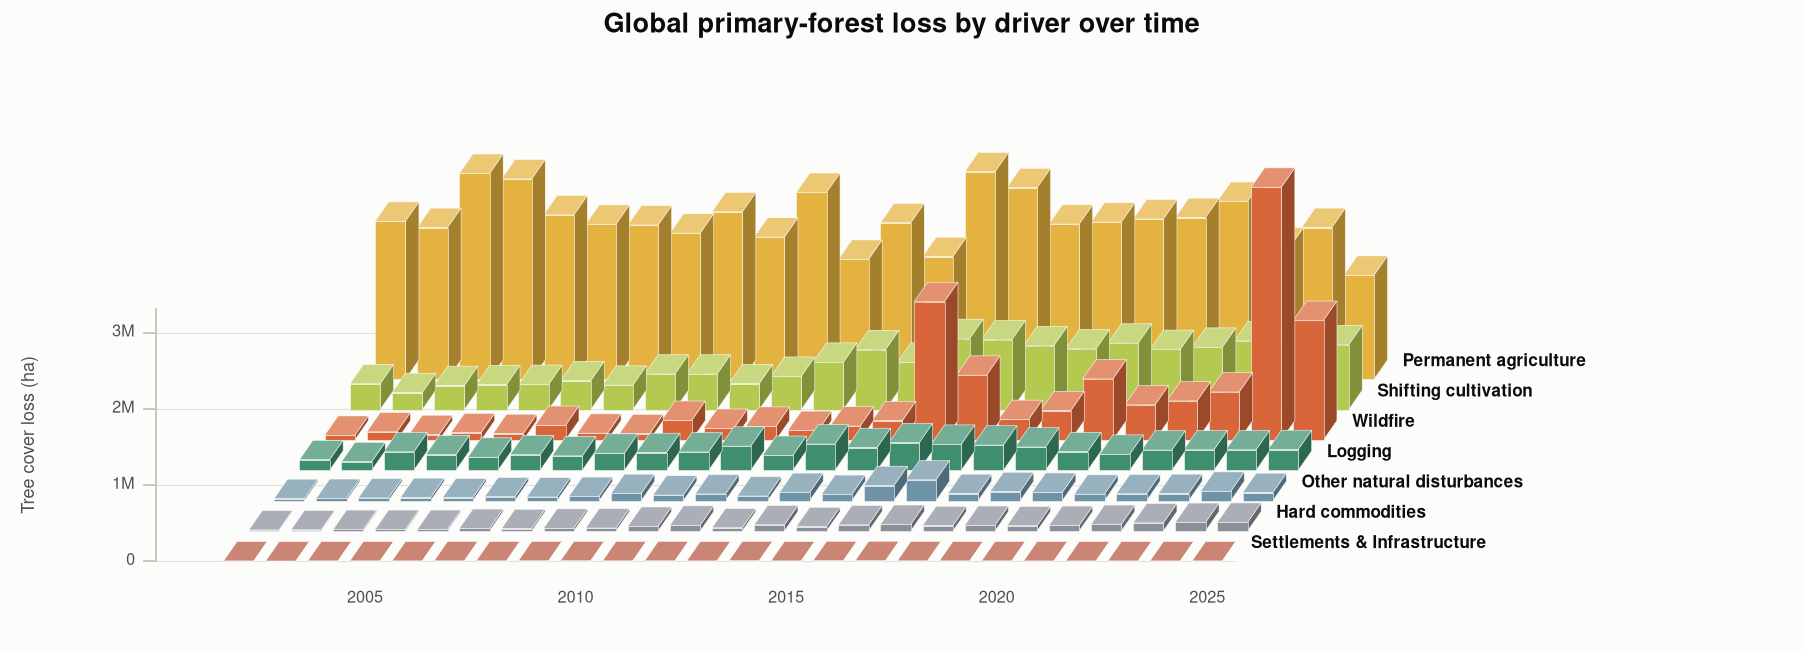
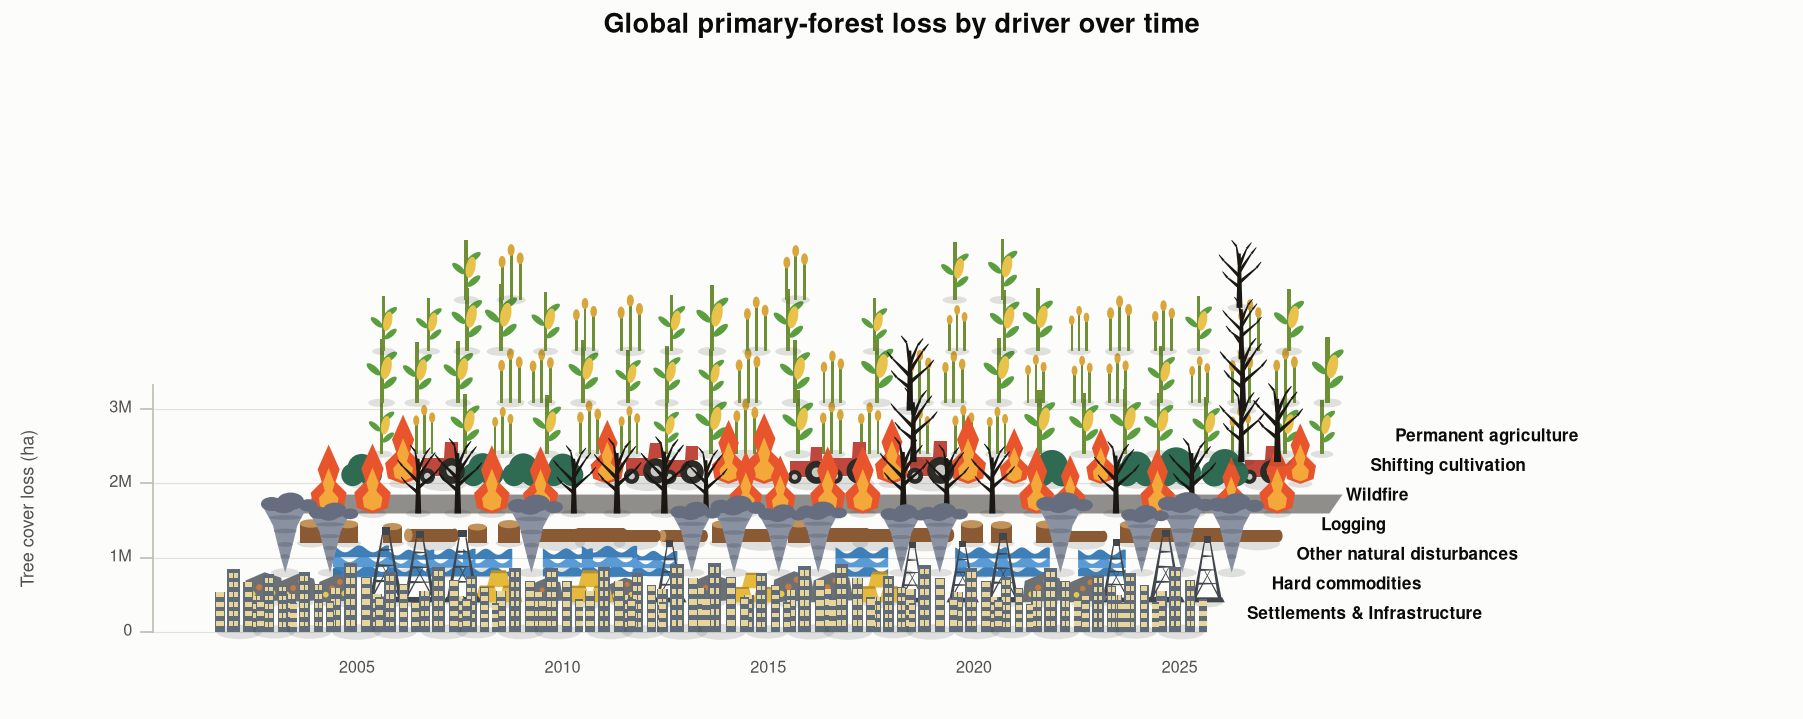
Turn over-time chart into a driver-motif pictograph
Replace the 3-D bars with columns of each driver's imagery stacked to the
ha value: wheat/corn (agriculture), shrubs+tractor+fires (shifting
cultivation), burnt trees+flames over charred ground (wildfire), logs
(logging), tornadoes+floods (other), oil rigs+gold+ore (hard commodities),
cityscapes (settlements). Add corn/shrub/tractor/flood motifs and a
TIMESERIES motif-set map; keep the common-floor ha axis.

diff --git a/src/forest_viz/motifs.py b/src/forest_viz/motifs.py
@@ -24,6 +24,10 @@ _C = {
     "ore": "#6c7075", "copper": "#c67a3e", "gold_speck": "#e8c94a",
     "storm": "#8a91a1", "storm_dark": "#666d7e",
     "city": "#5f6b78", "city_dark": "#48525d", "window": "#e8d59a",
+    "cob": "#e8c24a", "cob_leaf": "#5a9e3f",
+    "water": "#5b9bd5", "water_dark": "#3f7fb8",
+    "tractor": "#c0473c", "wheel": "#2b2b28", "hub": "#c9c9c4",
+    "charred": "#26221c",
 }
 _SHADOW = "#1c2b22"
 
@@ -213,12 +217,67 @@ def cityscape(ax, x, y, s, t, z):
             r += 1
 
 
+def corn(ax, x, y, s, t, z):
+    """A corn plant: green stalk, angled leaves, a yellow cob."""
+    _shadow(ax, x, y, 0.4, s, t, z)
+    _poly(ax, x, y, [(-0.03, 0), (0.03, 0), (0.03, 0.95), (-0.03, 0.95)], s, _C["stalk"], t, z + 0.01)
+    for oy, ang in ((0.3, 40), (0.5, -40), (0.68, 35)):
+        ax.add_patch(Ellipse((x + (0.12 if ang > 0 else -0.12) * s, y + oy * s), 0.26 * s, 0.1 * s,
+                             angle=ang, facecolor=_C["cob_leaf"], edgecolor="none", transform=t, zorder=z + 0.02))
+    ax.add_patch(Ellipse((x + 0.07 * s, y + 0.52 * s), 0.15 * s, 0.34 * s, angle=-12,
+                         facecolor=_C["cob"], edgecolor="none", transform=t, zorder=z + 0.03))
+
+
+def shrub(ax, x, y, s, t, z):
+    """A small rounded bush."""
+    _shadow(ax, x, y, 0.5, s, t, z)
+    for ox, oy, r in ((-0.16, 0.16, 0.2), (0.16, 0.16, 0.2), (0.0, 0.28, 0.25)):
+        ax.add_patch(Circle((x + ox * s, y + oy * s), r * s, facecolor=_C["tree2"],
+                            edgecolor="none", transform=t, zorder=z + 0.01))
+
+
+def tractor(ax, x, y, s, t, z):
+    """A simple side-view tractor."""
+    _shadow(ax, x, y, 0.7, s, t, z)
+    c = _C["tractor"]
+    _poly(ax, x, y, [(-0.34, 0.12), (0.16, 0.12), (0.16, 0.4), (-0.34, 0.4)], s, c, t, z + 0.01)  # body
+    _poly(ax, x, y, [(0.0, 0.4), (0.22, 0.4), (0.22, 0.64), (0.02, 0.64)], s, c, t, z + 0.02)      # cab
+    for wx, wr in ((0.12, 0.2), (-0.26, 0.12)):  # rear big, front small
+        ax.add_patch(Circle((x + wx * s, y + wr * s), wr * s, facecolor=_C["wheel"],
+                            edgecolor="none", transform=t, zorder=z + 0.03))
+        ax.add_patch(Circle((x + wx * s, y + wr * s), wr * 0.42 * s, facecolor=_C["hub"],
+                            edgecolor="none", transform=t, zorder=z + 0.04))
+
+
+def flood(ax, x, y, s, t, z):
+    """Wavy flood water."""
+    _shadow(ax, x, y, 0.5, s, t, z)
+    for i, (yy, col) in enumerate(((0.06, _C["water_dark"]), (0.2, _C["water"]), (0.34, _C["water_dark"]))):
+        xs = np.linspace(-0.4, 0.4, 25)
+        wave = 0.05 * np.sin(xs / 0.4 * np.pi * 2 + i)
+        top = np.column_stack([xs, yy + wave])
+        bot = np.column_stack([xs[::-1], np.full(len(xs), yy - 0.12)])
+        _poly(ax, x, y, np.vstack([top, bot]), s, col, t, z + 0.01 + i * 0.01)
+
+
 MOTIF = {
     "evergreen": evergreen, "round_tree": round_tree, "flame": flame,
     "burnt_tree": burnt_tree, "burnt_snag": burnt_snag,
     "log": log, "stump": stump, "crop": crop, "seedling": seedling, "barn": barn,
     "oil_derrick": oil_derrick, "gold_bars": gold_bars, "ore_rock": ore_rock,
     "tornado": tornado, "cityscape": cityscape,
+    "corn": corn, "shrub": shrub, "tractor": tractor, "flood": flood,
+}
+
+# Motif sets for the over-time pictograph (one entry per driver).
+TIMESERIES = {
+    "Permanent agriculture": ["crop", "corn"],
+    "Shifting cultivation": ["shrub", "tractor", "flame"],
+    "Wildfire": ["burnt_tree", "flame"],
+    "Logging": ["log", "stump"],
+    "Other natural disturbances": ["tornado", "flood"],
+    "Hard commodities": ["gold_bars", "ore_rock", "oil_derrick"],
+    "Settlements & Infrastructure": ["cityscape"],
 }
 
 # Which motifs (and relative sizes) compose each driver's diorama.

diff --git a/src/forest_viz/maps.py b/src/forest_viz/maps.py
@@ -636,18 +636,33 @@ def plot_drivers_over_time_3d(drivers, country=None, ax=None, dark=False):
     ax.text(-4.6, gmax * yscale / 2, "Tree cover loss (ha)", rotation=90, ha="center",
             va="center", fontsize=10, color=chrome["text_secondary"])
 
-    # Draw back (far) rows first so nearer driver rows overlap them.
+    # Each year's value is a column of the driver's motifs stacked to the bar
+    # height. Draw back (far) rows first so nearer rows overlap them.
+    msize, step = 1.5, 1.25
     for r in range(n - 1, -1, -1):
         d = rows[r]
-        bx, byb, color = r * dpx, r * dpy, theme[d]
+        bx, byb = r * dpx, r * dpy
         zlayer = (n - r) * 1000
+        keys = _motifs.TIMESERIES.get(d) or [_LEGEND_MOTIF.get(d, "crop")]
+        if d == "Wildfire":  # charred ground under the wildfire row
+            x0, x1 = bx - 0.4, bx + n_years * xstep + 0.6
+            ax.add_patch(Polygon([(x0, byb), (x1, byb), (x1 + dx, byb + dy), (x0 + dx, byb + dy)],
+                                 closed=True, facecolor="#26221c", alpha=0.5, edgecolor="none",
+                                 zorder=zlayer - 0.5))
         for xi, yr in enumerate(years):
             val = float(wide.loc[yr, d])
             if val <= 0:
                 continue
-            _bar3d(ax, bx + xi * xstep, byb, w, val * yscale, dx, dy, color,
-                   chrome["surface"], zlayer + (n_years - xi))
-        ax.text(bx + n_years * xstep + 0.4, byb + 0.2, d, ha="left", va="bottom",
+            h = val * yscale
+            cx = bx + xi * xstep + w / 2
+            rng = np.random.RandomState(zlib.crc32(f"{d}{yr}".encode()) & 0xFFFFFFFF)
+            for i in range(max(1, int(round(h / step)))):
+                key = keys[rng.randint(len(keys))]
+                jx = cx + (rng.rand() - 0.5) * 0.3
+                sz = msize * (0.9 + rng.rand() * 0.25)
+                _motifs.MOTIF[key](ax, jx, byb + i * step, sz, ax.transData,
+                                   zlayer + (n_years - xi) + i * 0.02)
+        ax.text(bx + n_years * xstep + 1.0, byb + 0.2, d, ha="left", va="bottom",
                 fontsize=9.5, color=chrome["text"], fontweight="bold", zorder=zlayer + 9999)
 
     for xi, yr in enumerate(years):  # year ticks along the front baseline
@@ -655,8 +670,8 @@ def plot_drivers_over_time_3d(drivers, country=None, ax=None, dark=False):
             ax.text(xi * xstep + w / 2, -0.7, str(yr), ha="center", va="top",
                     fontsize=9, color=chrome["text_secondary"])
 
-    ax.set_xlim(-5, n_years * xstep + n * dpx + 9)
-    ax.set_ylim(-1.8, n * dpy + gmax * yscale + 1)
+    ax.set_xlim(-5, n_years * xstep + n * dpx + 10)
+    ax.set_ylim(-1.8, n * dpy + gmax * yscale + msize + 1.5)
     ax.set_aspect("equal")
     ax.axis("off")
     scope = country if country else "Global"

diff --git a/README.md b/README.md
@@ -91,7 +91,7 @@ python examples/generate_figures.py data/raw/global.xlsx
 | `plot_top_countries` | Which countries lost the most? | ranked horizontal bar |
 | `plot_top_countries_drivers` | For the top countries, what % of loss is which driver? | ranked bar, stacked by driver with % labels |
 | `plot_top_countries_map` | Where are the top countries, and their driver mix? | pop-out world map, each country filled by driver share |
-| `plot_drivers_over_time_3d` | How does the driver mix shift year to year? | layered isometric 3-D bars |
+| `plot_drivers_over_time_3d` | How does the driver mix shift year to year? | isometric pictograph — columns of driver motifs (ha axis) |
 | `plot_driver_pie` | Which drivers dominate overall? | pie, slices filled with driver motifs |
 
 ![Top countries pop-out map](reports/figures/top_countries_map.png)
